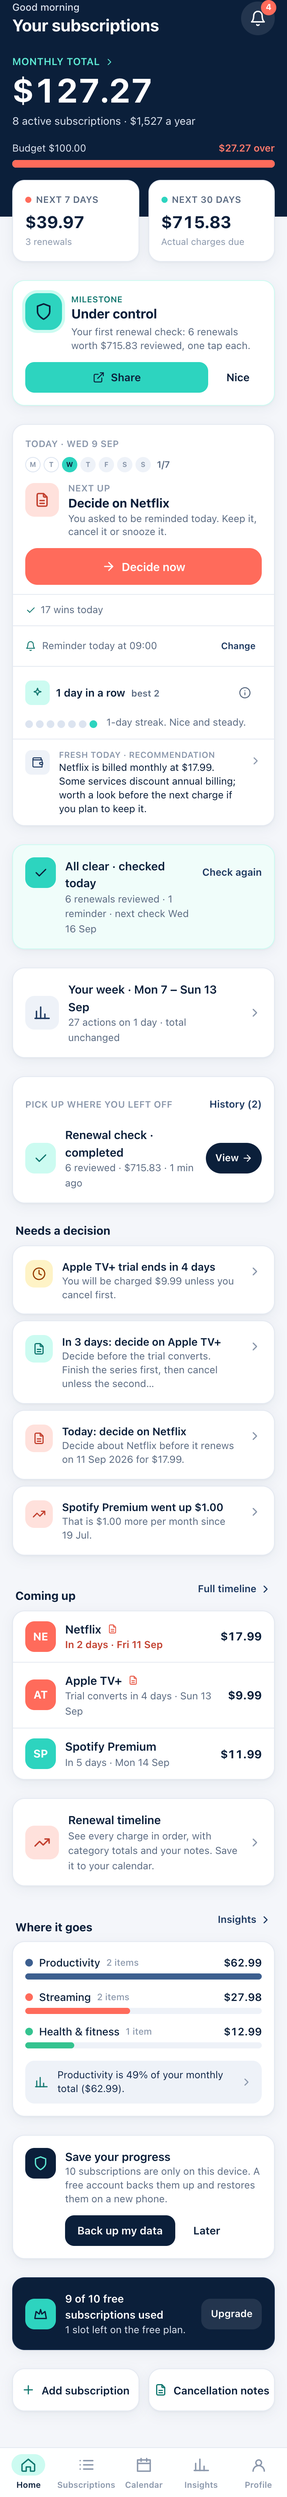
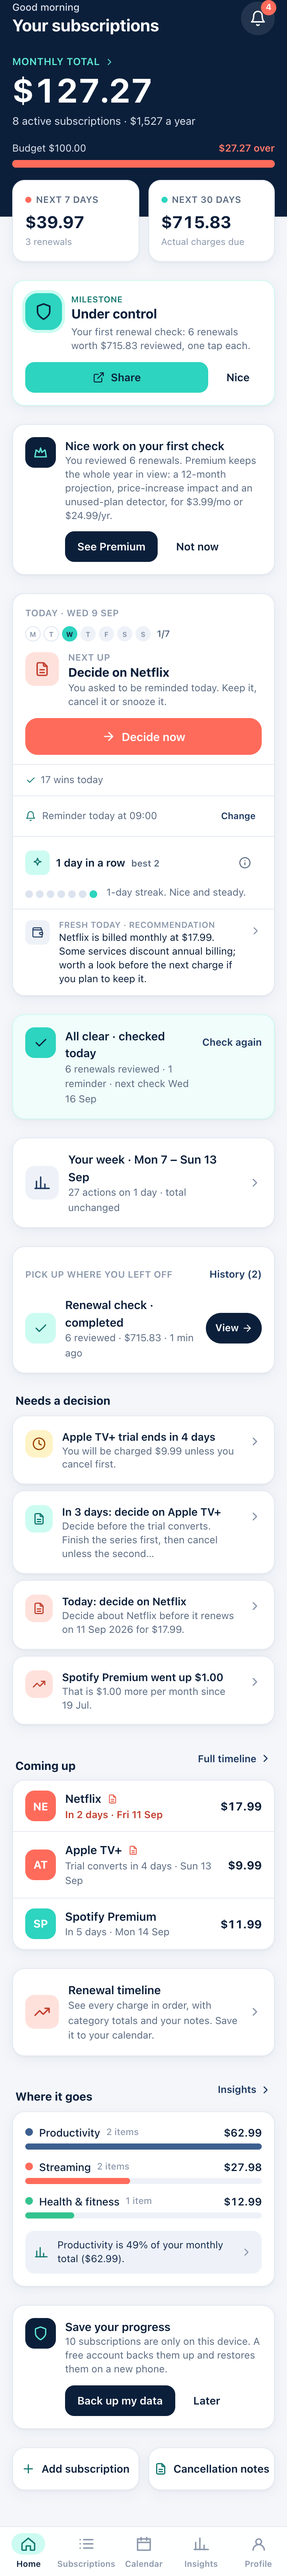
Audit premium placement: three triggers only, first-win offer, Settings entry
Upgrade banners now appear only at the free limit (a quiet slot note at 8-9),
a one-time dismissible Premium offer follows the first completed renewal
check, Settings gains a Plan row, and the feature list drops export, which
is free. Onboarding stays free of hard blocks.

diff --git a/src/components/app/Paywall.tsx b/src/components/app/Paywall.tsx
@@ -1,5 +1,7 @@
+import { useEffect, useState } from 'react'
 import { useNavigate } from 'react-router-dom'
-import { FREE_SUBSCRIPTION_LIMIT, PREMIUM_PRICING } from '@/db/schema'
+import { FREE_SUBSCRIPTION_LIMIT, PREMIUM_PRICING, type RenewalCheck, type Settings } from '@/db/schema'
+import { updateSettings } from '@/db/repo'
 import { PREMIUM_FEATURES } from '@/lib/plan'
 import { Sheet } from '@/components/ui/Sheet'
 import { Button } from '@/components/ui/Button'
@@ -69,6 +71,54 @@ export function UpgradeBanner({ used, compact }: { used: number; compact?: boole
       <button onClick={() => navigate('/premium')} className="h-10 shrink-0 rounded-xl bg-white/10 px-3 text-[13px] font-semibold hover:bg-white/15">
         Upgrade
       </button>
+    </Card>
+  )
+}
+
+/**
+ * Shown once, on Home, after the first completed renewal check (a meaningful first win), and only to
+ * free users. Dismissible, never blocking, recorded so it does not return.
+ */
+export function FirstWinOffer({ settings, checks }: { settings: Settings; checks: RenewalCheck[] }) {
+  const navigate = useNavigate()
+  const [hidden, setHidden] = useState(false)
+  const firstWin = checks.some((c) => c.completedAt && c.summary && c.summary.reviewed > 0)
+  const shown = settings.premiumOfferSeen
+  useEffect(() => {
+    if (firstWin && !shown) void updateSettings({ premiumOfferSeen: new Date().toISOString() })
+  }, [firstWin, shown])
+  if (!firstWin || hidden || settings.premiumOfferDismissed) return null
+  // Stays for the visit it first appeared in; on later visits it is gone even if it was never dismissed.
+  if (shown && shown < new Date(Date.now() - 10 * 60000).toISOString()) return null
+  const reviewed = checks.filter((c) => c.completedAt && c.summary).reduce((n, c) => n + (c.summary?.reviewed ?? 0), 0)
+  return (
+    <Card className="p-4">
+      <div className="flex items-start gap-3">
+        <span className="flex h-10 w-10 shrink-0 items-center justify-center rounded-xl bg-navy-900 text-mint-400">
+          <Icon name="crown" size={20} />
+        </span>
+        <div className="min-w-0 flex-1">
+          <p className="text-[15px] font-semibold text-ink">Nice work on your first check</p>
+          <p className="text-[13px] leading-snug text-muted">
+            You reviewed {reviewed} {reviewed === 1 ? 'renewal' : 'renewals'}. Premium keeps the whole year in view: a 12-month projection, price-increase impact and an unused-plan detector, for ${PREMIUM_PRICING.monthly.toFixed(2)}/mo or ${PREMIUM_PRICING.yearly.toFixed(2)}/yr.
+          </p>
+          <div className="mt-3 flex gap-2">
+            <Button size="sm" onClick={() => navigate('/premium')}>
+              See Premium
+            </Button>
+            <Button
+              size="sm"
+              variant="ghost"
+              onClick={() => {
+                setHidden(true)
+                void updateSettings({ premiumOfferDismissed: new Date().toISOString() })
+              }}
+            >
+              Not now
+            </Button>
+          </div>
+        </div>
+      </div>
     </Card>
   )
 }

diff --git a/src/pages/Settings.tsx b/src/pages/Settings.tsx
@@ -1,5 +1,7 @@
 import { useMemo, useRef, useState } from 'react'
 import { describeDays, isPaused, scheduleOf } from '@/lib/reminders'
+import { isPremium, price } from '@/lib/plan'
+import { FREE_SUBSCRIPTION_LIMIT } from '@/db/schema'
 import { formatDate } from '@/lib/dates'
 import { describeError } from '@/lib/errors'
 import { useNavigate } from 'react-router-dom'
@@ -255,6 +257,23 @@ export default function Settings() {
             </Card>
           </section>
         )}
+
+        <section>
+          <SectionTitle>Plan</SectionTitle>
+          <Card className="overflow-hidden">
+            <Row onClick={() => navigate('/premium')}>
+              <span className={`flex h-10 w-10 shrink-0 items-center justify-center rounded-xl ${isPremium(profile) ? 'bg-mint-100 text-mint-700' : 'bg-navy-50 text-navy-700'}`}>
+                <Icon name="crown" size={20} />
+              </span>
+              <span className="flex-1">
+                <span className="block text-[15px] font-semibold text-ink">{isPremium(profile) ? `Premium ${profile.premiumInterval}` : 'Free plan'}</span>
+                <span className="block text-[13px] text-muted">
+                  {isPremium(profile) ? 'Manage or restore your plan' : `Up to ${FREE_SUBSCRIPTION_LIMIT} subscriptions · Premium is ${price('monthly')}/mo or ${price('yearly')}/yr`}
+                </span>
+              </span>
+            </Row>
+          </Card>
+        </section>
 
         <p className="px-1 text-center text-[12px] text-faint">Subscription Tracker 1.0 · {auth.status === 'signed-in' ? 'Backed up to your account' : 'Data is stored locally in your browser'}</p>
       </Page>

diff --git a/src/pages/Home.tsx b/src/pages/Home.tsx
@@ -16,6 +16,7 @@ import { CheckCard } from '@/components/app/CheckCard'
 import { ContinueCard } from '@/components/app/RecentActivity'
 import { TodayCard } from '@/components/app/TodayCard'
 import { MilestoneCard } from '@/components/app/MilestoneCard'
+import { FirstWinOffer } from '@/components/app/Paywall'
 import { weeklySummary } from '@/lib/weekly'
 import { db } from '@/db/schema'
 import { useLiveQuery } from 'dexie-react-hooks'
@@ -222,6 +223,7 @@ export default function Home() {
         {subs && notes && settings && priceChanges && allChecks && (
           <MilestoneCard subs={subs} notes={notes} changes={priceChanges} checks={allChecks} settings={settings} currency={currency} />
         )}
+        {profile && settings && allChecks && !isPremium(profile) && <FirstWinOffer settings={settings} checks={allChecks} />}
         {subs && notes && settings && priceChanges && activeCheck !== undefined && latestCheck !== undefined && (
           <TodayCard subs={subs} notes={notes} changes={priceChanges} settings={settings} active={activeCheck} latest={latestCheck} currency={currency} />
         )}
@@ -374,7 +376,7 @@ export default function Home() {
           />
         )}
 
-        {profile && !isPremium(profile) && subs && used >= FREE_SUBSCRIPTION_LIMIT - 3 && <UpgradeBanner used={used} />}
+        {profile && !isPremium(profile) && subs && used >= FREE_SUBSCRIPTION_LIMIT && <UpgradeBanner used={used} />}
 
         <div className="grid grid-cols-2 gap-3">
           <QuickAction icon="plus" label="Add subscription" onClick={() => navigate('/subscriptions/new')} />

diff --git a/src/lib/plan.ts b/src/lib/plan.ts
@@ -104,15 +104,10 @@ export function premiumBenefits(subs: Subscription[], changes: PriceChange[], no
     out.push({ icon: 'chart', title: 'Insights that go a year ahead', body: 'A 12-month projection, a price-increase impact report and an unused-subscription detector, all built from your own history.', from: 'Spending insights' })
   }
   if (out.length < 3) {
-    out.push({ icon: 'note', title: 'Export everything, any time', body: 'A full JSON backup of subscriptions, notes and history whenever you want it.', from: 'Subscription list' })
+    out.push({ icon: 'pause', title: 'Catch plans you stopped using', body: 'The unused detector watches pauses, trials and your own notes so money you may not need never slips by.', from: 'Cancellation notes and spending insights' })
   }
   return out.slice(0, 3)
 }
 
-export const PREMIUM_FEATURES = [
-  'Unlimited subscriptions',
-  'Spending trends and 12-month projection',
-  'Price-increase impact report',
-  'Unused subscription detector',
-  'Export your data any time',
-]
+/** Exactly what Premium adds. Everything else in the app, including export, stays free. */
+export const PREMIUM_FEATURES = ['Unlimited subscriptions (free covers ten)', 'Spending trends and 12-month projection', 'Price-increase impact report', 'Unused subscription detector']

diff --git a/src/pages/Subscriptions.tsx b/src/pages/Subscriptions.tsx
@@ -146,9 +146,18 @@ export default function Subscriptions() {
           </Card>
         )}
 
-        {base && list && base.length > 0 && <ResultsBar shown={list.length} total={base.length} noun={base.length === 1 ? 'subscription' : 'subscriptions'} active={filtersActive} onClear={clear} />}
+        {base && list && base.length > 0 && (
+          <ResultsBar
+            shown={list.length}
+            total={base.length}
+            noun={base.length === 1 ? 'subscription' : 'subscriptions'}
+            active={filtersActive}
+            onClear={clear}
+            extra={profile && !isPremium(profile) && used >= FREE_SUBSCRIPTION_LIMIT - 2 && used < FREE_SUBSCRIPTION_LIMIT ? ` · ${used} of ${FREE_SUBSCRIPTION_LIMIT} free` : undefined}
+          />
+        )}
 
-        {profile && !isPremium(profile) && used >= FREE_SUBSCRIPTION_LIMIT - 2 && <UpgradeBanner used={used} compact />}
+        {profile && !isPremium(profile) && used >= FREE_SUBSCRIPTION_LIMIT && <UpgradeBanner used={used} compact />}
 
         {!list || !base ? (
           <ListSkeleton rows={5} />

diff --git a/src/db/schema.ts b/src/db/schema.ts
@@ -147,6 +147,9 @@ export interface Settings {
   bestStreak?: number
   /** Milestone id → ISO timestamp of when its card was shown. A milestone is celebrated once. */
   milestonesSeen?: Record<string, string>
+  /** When the one-time Premium offer after the first completed check was shown, and when it was dismissed. */
+  premiumOfferSeen?: string
+  premiumOfferDismissed?: string
   /** When to nudge the user to check renewals and the monthly total. See src/lib/reminders.ts. */
   reminderSchedule?: {
     days: number[]
